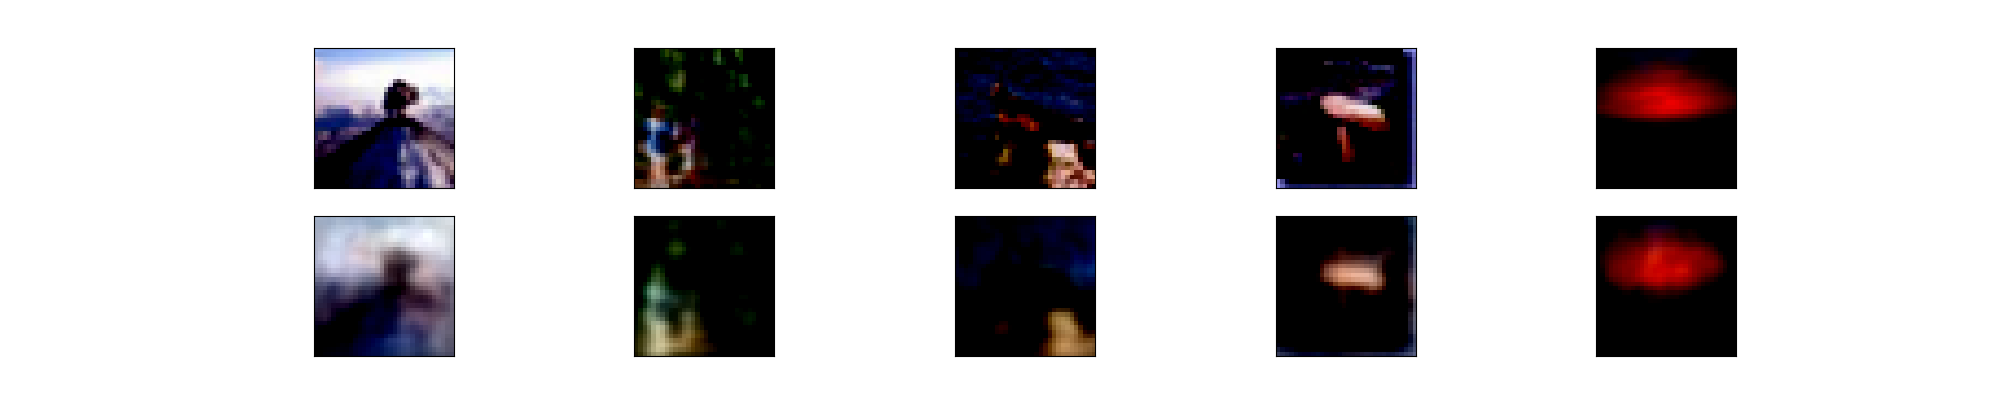
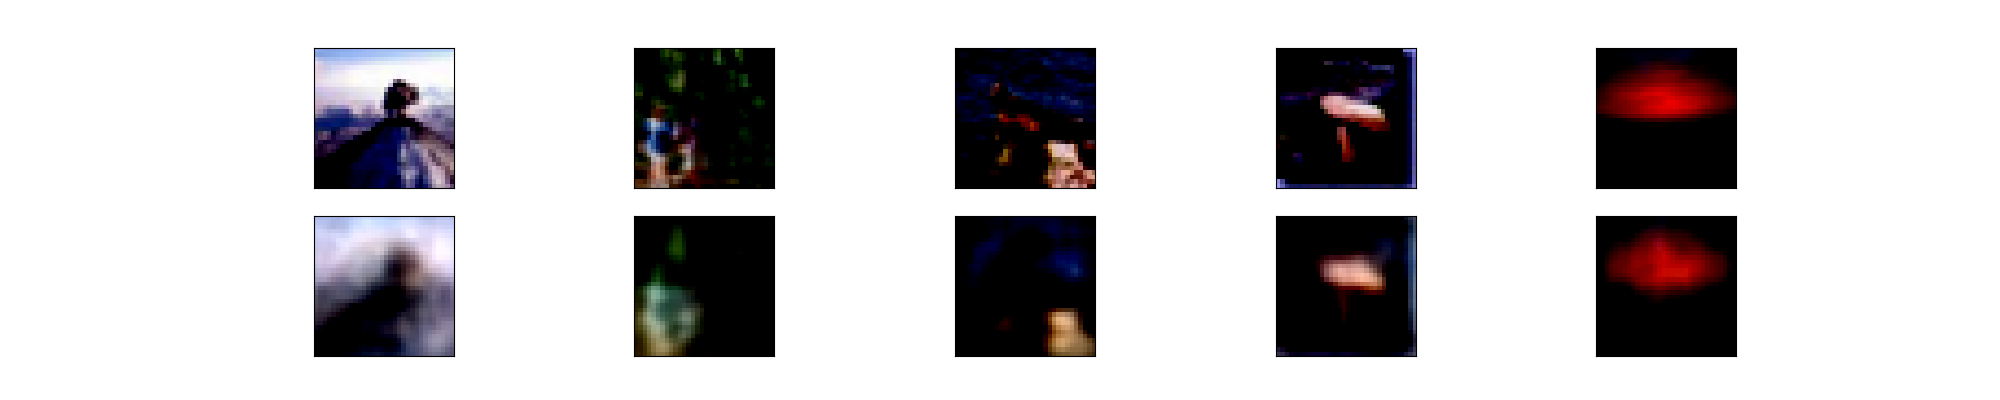
Small adjustments to tiny-imagenet sizes

diff --git a/oselm/train-os-elm.py b/oselm/train-os-elm.py
@@ -1,8 +1,6 @@
-import torch
 from oselm import OSELM
+import torch
 from torchvision import datasets, transforms
-from torch.backends import mps
-from torch import cuda
 from torch.utils.data import random_split
 from sys import argv
 import logging
@@ -70,15 +68,15 @@ def load_and_split_data(dataset, mode, batch_size = 1):
             hidden_nodes = 1024
         case 'tiny-imagenet':
             transform = transforms.Compose([
-                transforms.Resize((64,64)),
+                transforms.Resize((32,32)),
                 transforms.ToTensor(),
                 # Normalize each channel of the input data
                 transforms.Normalize((0.5,0.5,0.5),(0.5,0.5,0.5))
             ])
             train_data = datasets.ImageFolder(root = './data/tiny-imagenet-200/train', transform = transform)
             test_data = datasets.ImageFolder(root = './data/tiny-imagenet-200/test', transform = transform)
-            input_nodes = 12288
-            hidden_nodes = 4096
+            input_nodes = 3072
+            hidden_nodes = 1024
         case _:
             raise ValueError(f"Invalid dataset: {dataset}")
 

diff --git a/autoencoder/train-autoencoder.py b/autoencoder/train-autoencoder.py
@@ -1,9 +1,7 @@
+from autoencoder import Autoencoder
 import torch
 from torchvision import datasets, transforms
 import torch.nn as nn
-from torch.backends import mps
-from torch import cuda
-from autoencoder import Autoencoder
 import logging
 from sys import argv
 import time
@@ -51,15 +49,15 @@ def load_data(dataset):
             hidden_nodes = 1024
         case 'tiny-imagenet':
             transform = transforms.Compose([
-                transforms.Resize((64,64)),
+                transforms.Resize((32,32)),
                 transforms.ToTensor(),
                 # Normalize each channel of the input data
                 transforms.Normalize((0.5,0.5,0.5),(0.5,0.5,0.5))
             ])
             train_data = datasets.ImageFolder(root = './data/tiny-imagenet-200/train', transform = transform)
             test_data = datasets.ImageFolder(root = './data/tiny-imagenet-200/test', transform = transform)
-            input_nodes = 12288
-            hidden_nodes = 4096
+            input_nodes = 3072
+            hidden_nodes = 1024
         case _:
             raise ValueError(f"Invalid dataset: {dataset}")
 

diff --git a/elmae/train-elm-ae.py b/elmae/train-elm-ae.py
@@ -1,7 +1,5 @@
 from elmae import ELMAE
 from torchvision import datasets, transforms
-from torch.backends import mps
-from torch import cuda
 from sys import argv
 import torch
 import logging
@@ -66,15 +64,15 @@ def load_and_split_data(dataset):
             hidden_nodes = 1024
         case 'tiny-imagenet':
             transform = transforms.Compose([
-                transforms.Resize((64,64)),
+                transforms.Resize((32,32)),
                 transforms.ToTensor(),
                 # Normalize each channel of the input data
                 transforms.Normalize((0.5,0.5,0.5),(0.5,0.5,0.5))
             ])
             train_data = datasets.ImageFolder(root = './data/tiny-imagenet-200/train', transform = transform)
             test_data = datasets.ImageFolder(root = './data/tiny-imagenet-200/test', transform = transform)
-            input_nodes = 12288
-            hidden_nodes = 4096
+            input_nodes = 3072
+            hidden_nodes = 1024
         case _:
             raise ValueError(f"Invalid dataset: {dataset}")
 

diff --git a/elmae/elmae.py b/elmae/elmae.py
@@ -63,9 +63,6 @@ class ELMAE(nn.Module):
         # Assert that the input data shape matches the input nodes
         assert_cond(train_data.shape[1] == self.__n_input_nodes, "Train data shape does not match the input nodes")
 
-        # train_data = torch.quantize_per_tensor(train_data, 0.1, 0, torch.qint8)
-        # alpha = torch.quantize_per_tensor(self.__alpha, 0.1, 0, torch.qint8)
-
         H = self.__activation_func(torch.matmul(train_data, self.__alpha) + self.__bias)
         assert_cond(H.shape[1] == self.__n_hidden_nodes, "Hidden layer shape does not match the hidden nodes")
         assert_cond(H.shape[0] == train_data.shape[0], "Hidden layer shape does not match the train data")
@@ -75,6 +72,7 @@ class ELMAE(nn.Module):
         H_TH = torch.matmul(H_T, H) 
         H_THI = H_TH + ident / self.__penalty
         H_THI_H_T = lstsq(H_THI, H_T).solution
+        
         self.__beta = torch.matmul(H_THI_H_T, train_data)
 
     """
